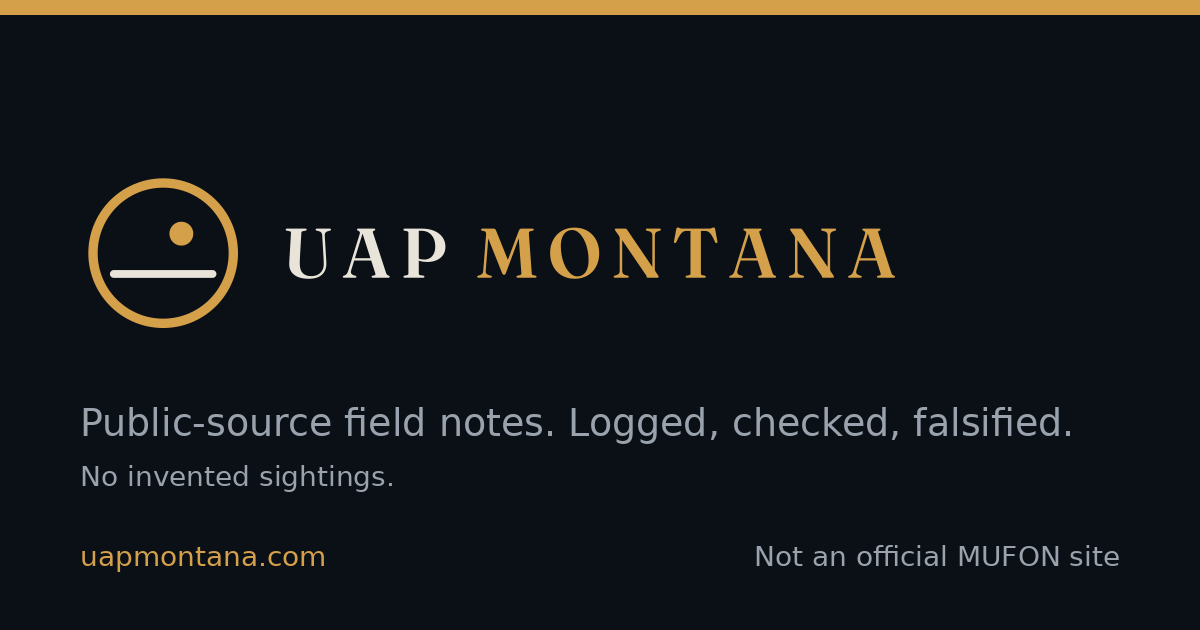
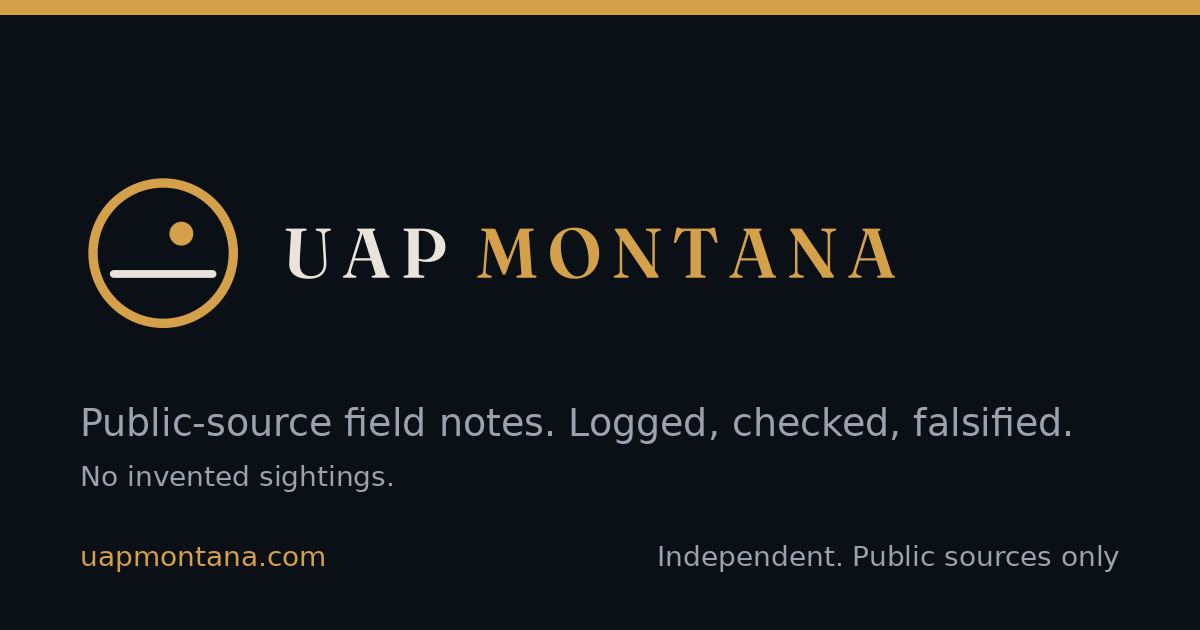
Trim MUFON references

Changed region(s): [[0.555, 0.8444, 0.9558, 0.9048]]

diff --git a/about.html b/about.html
@@ -4,7 +4,7 @@
 <meta charset="utf-8" />
 <meta name="viewport" content="width=device-width, initial-scale=1" />
 <title>About — UAP Montana</title>
-<meta name="description" content="UAP Montana is an independent, public-source field-notes project. No invented sightings. Not an official MUFON site." />
+<meta name="description" content="UAP Montana is an independent, public-source field-notes project. No invented sightings." />
 <meta name="color-scheme" content="dark" />
 <meta name="theme-color" content="#0b1016" />
 
@@ -17,7 +17,7 @@
 <meta property="og:type" content="website" />
 <meta property="og:site_name" content="UAP Montana" />
 <meta property="og:title" content="About — UAP Montana" />
-<meta property="og:description" content="UAP Montana is an independent, public-source field-notes project. No invented sightings. Not an official MUFON site." />
+<meta property="og:description" content="UAP Montana is an independent, public-source field-notes project. No invented sightings." />
 <meta property="og:url" content="https://uapmontana.com/about.html" />
 <meta property="og:image" content="https://uapmontana.com/og.png" />
 <meta property="og:image:width" content="1200" />
@@ -25,7 +25,7 @@
 <meta property="og:image:alt" content="UAP Montana — public-source field notes" />
 <meta name="twitter:card" content="summary_large_image" />
 <meta name="twitter:title" content="About — UAP Montana" />
-<meta name="twitter:description" content="UAP Montana is an independent, public-source field-notes project. No invented sightings. Not an official MUFON site." />
+<meta name="twitter:description" content="UAP Montana is an independent, public-source field-notes project. No invented sightings." />
 <meta name="twitter:image" content="https://uapmontana.com/og.png" />
 <link rel="stylesheet" href="/styles.css" />
 </head>
@@ -45,7 +45,7 @@
 <p>UAP Montana is an independent, public-source field-notes project: this site and its Field Notes. We look for the record, check the boring explanation first, and publish what survives daylight. We never invent a sighting to fill a hole. The project is run under the brand only, and we don’t publish personal details about the people behind it or about anyone who writes to us.</p>
 
 <h2>Independence</h2>
-<p><strong>This site is not an official MUFON publication</strong> and is not affiliated with any government agency. It does not publish confidential case files.</p>
+<p><strong>This site is independent</strong> and is not affiliated with any government agency. It does not publish confidential case files.</p>
 
 <h2>What we will cite</h2>
 <p>Public X and news, AMS/IMO fireball notices, MADAR quiet/noisy framing, space weather, FAA GPS-test windows, and historical NUFORC <em>patterns</em>. If a source is down, we say it’s down.</p>
@@ -64,7 +64,7 @@
 </div>
 </div></main>
 <footer class="site-footer"><div class="wrap">
-<p>Not an official MUFON publication. Public sources only. We do not invent sightings or publish confidential investigations.</p>
+<p>Independent. Public sources only. We do not invent sightings or publish confidential investigations.</p>
 <p>Sister site: <a href="https://uapidaho.com/">UAP Idaho</a></p>
 <p>© UAP Montana · <a href="/privacy.html">Privacy</a> · <a href="mailto:uapmontana@pm.me">uapmontana@pm.me</a></p>
 </div></footer>

diff --git a/contact.html b/contact.html
@@ -63,10 +63,10 @@
 </fieldset>
 </form>
 </div>
-<p class="note">NUFORC and MUFON remain valid parallel channels for reporting. Not an official MUFON site.</p>
+<p class="note">NUFORC, MUFON, CUFOS and other investigative groups remain valid parallel channels for reporting.</p>
 </div></main>
 <footer class="site-footer"><div class="wrap">
-<p>Not an official MUFON publication. Public sources only. We do not invent sightings or publish confidential investigations.</p>
+<p>Independent. Public sources only. We do not invent sightings or publish confidential investigations.</p>
 <p>Sister site: <a href="https://uapidaho.com/">UAP Idaho</a></p>
 <p>© UAP Montana · <a href="/privacy.html">Privacy</a> · <a href="mailto:uapmontana@pm.me">uapmontana@pm.me</a></p>
 </div></footer>

diff --git a/privacy.html b/privacy.html
@@ -68,7 +68,7 @@
 <p class="note">Questions: <a href="mailto:uapmontana@pm.me">uapmontana@pm.me</a>. Last updated 2026-10-02.</p>
 </div></main>
 <footer class="site-footer"><div class="wrap">
-<p>Not an official MUFON publication. Public sources only. We do not invent sightings or publish confidential investigations.</p>
+<p>Independent. Public sources only. We do not invent sightings or publish confidential investigations.</p>
 <p>Sister site: <a href="https://uapidaho.com/">UAP Idaho</a></p>
 <p>© UAP Montana · <a href="/privacy.html">Privacy</a> · <a href="mailto:uapmontana@pm.me">uapmontana@pm.me</a></p>
 </div></footer>

diff --git a/404.html b/404.html
@@ -43,7 +43,7 @@
 <p><a href="/">Go to the home page</a> · <a href="/contact.html">Contact</a></p>
 </div></main>
 <footer class="site-footer"><div class="wrap">
-<p>Not an official MUFON publication. Public sources only. We do not invent sightings or publish confidential investigations.</p>
+<p>Independent. Public sources only. We do not invent sightings or publish confidential investigations.</p>
 <p>Sister site: <a href="https://uapidaho.com/">UAP Idaho</a></p>
 <p>© UAP Montana · <a href="/privacy.html">Privacy</a> · <a href="mailto:uapmontana@pm.me">uapmontana@pm.me</a></p>
 </div></footer>

diff --git a/index.html b/index.html
@@ -92,7 +92,7 @@
 </div>
 </div></main>
 <footer class="site-footer"><div class="wrap">
-<p>Not an official MUFON publication. Public sources only. We do not invent sightings or publish confidential investigations.</p>
+<p>Independent. Public sources only. We do not invent sightings or publish confidential investigations.</p>
 <p>Sister site: <a href="https://uapidaho.com/">UAP Idaho</a></p>
 <p>© UAP Montana · <a href="/privacy.html">Privacy</a> · <a href="mailto:uapmontana@pm.me">uapmontana@pm.me</a></p>
 </div></footer>

diff --git a/notes.html b/notes.html
@@ -51,7 +51,7 @@
 </div>
 </div></main>
 <footer class="site-footer"><div class="wrap">
-<p>Not an official MUFON publication. Public sources only. We do not invent sightings or publish confidential investigations.</p>
+<p>Independent. Public sources only. We do not invent sightings or publish confidential investigations.</p>
 <p>Sister site: <a href="https://uapidaho.com/">UAP Idaho</a></p>
 <p>© UAP Montana · <a href="/privacy.html">Privacy</a> · <a href="mailto:uapmontana@pm.me">uapmontana@pm.me</a></p>
 </div></footer>

diff --git a/README.md b/README.md
@@ -1,3 +1,3 @@
 # UAP Montana — uapmontana.com
 
-Static site (plain HTML/CSS, no build step), served via GitHub Pages. Public-source field notes; not an official MUFON site.
+Static site (plain HTML/CSS, no build step), served via GitHub Pages. Public-source field notes.
